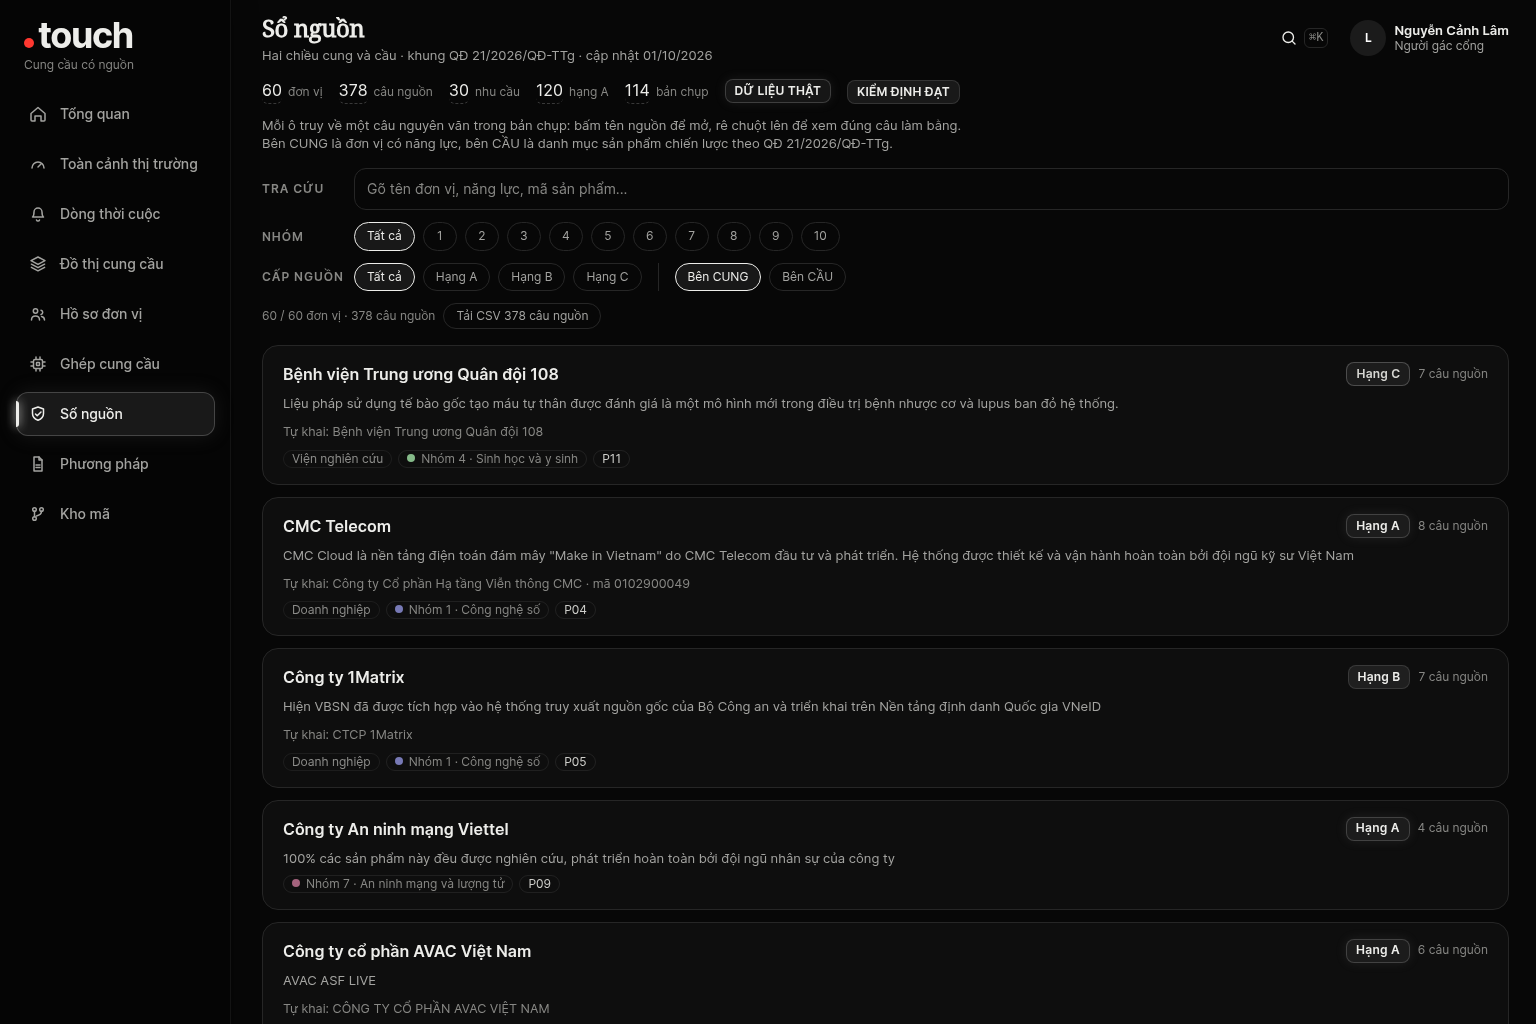
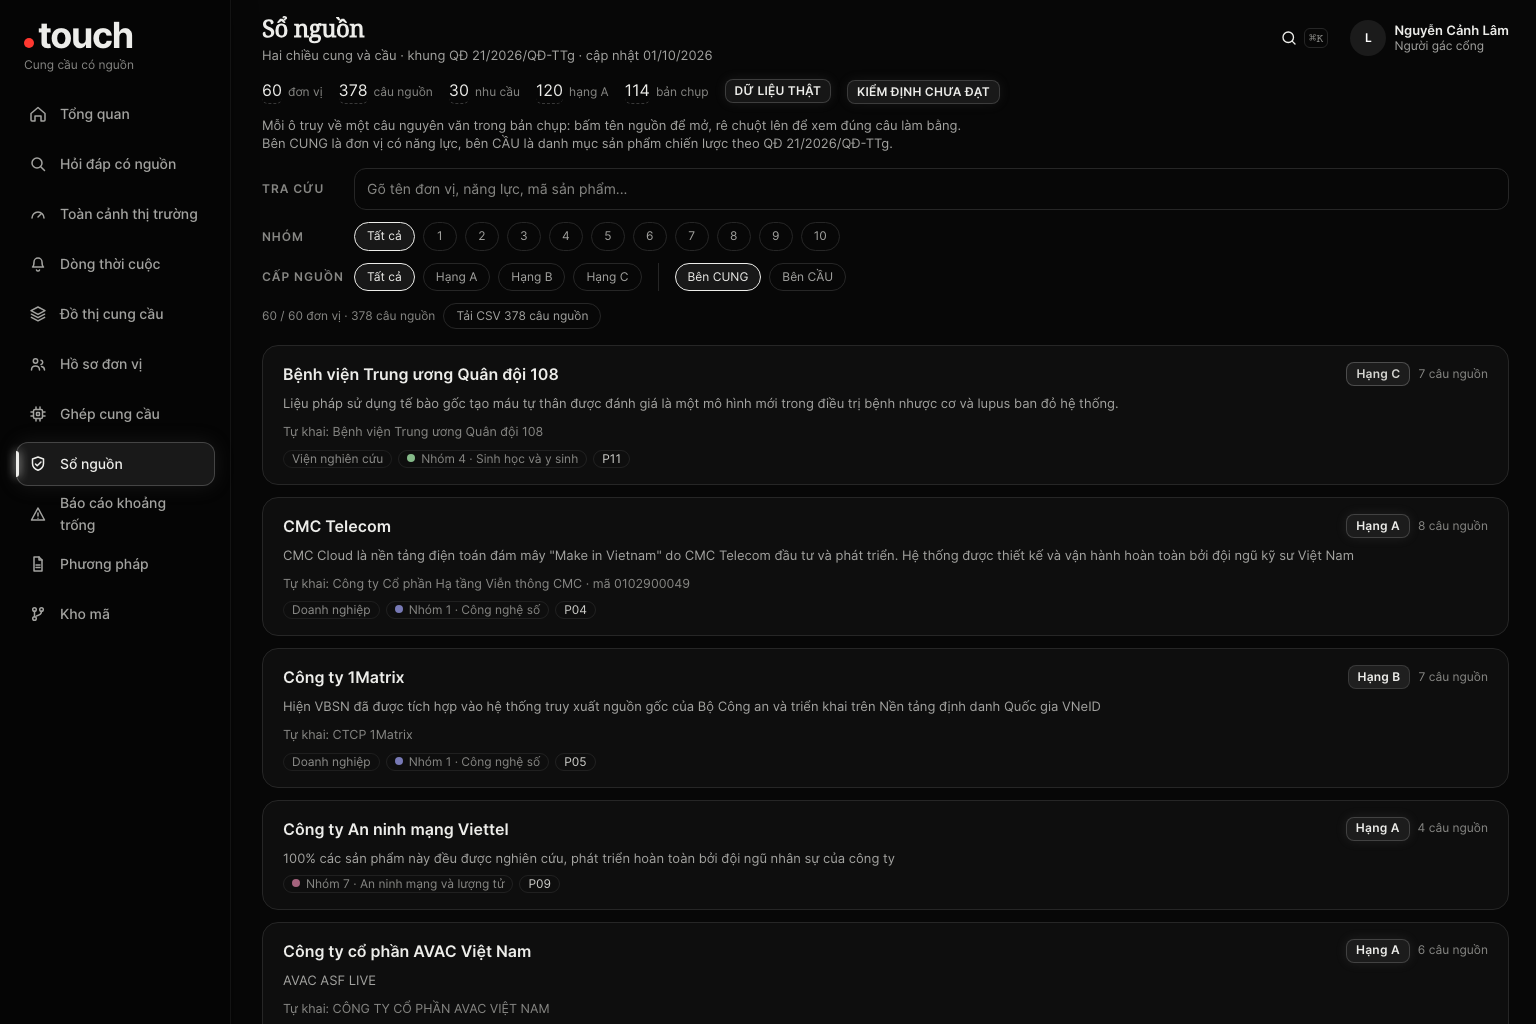
Lam moi anh moc, truy cap va ket qua chuoi tren may that

diff --git a/.touch/lib/cncl-registry.ts b/.touch/lib/cncl-registry.ts
@@ -39,16 +39,16 @@ export const cnclMeta: CnclMeta = {
   "nhomPhu": 10,
   "generatedAt": "2026-10-01",
   "frame": "QĐ 21/2026/QĐ-TTg",
-  "gate": "chuỗi cổng 2026-10-01 11:37: 103/103 xanh",
+  "gate": "chuỗi cổng 2026-10-01 20:39: 61/62 xanh · chế độ nhanh · ĐỎ 0 · không chạy 1",
   "chuoiCong": {
-    "luc": "2026-10-01T11:37:40+0700",
-    "cheDo": "day_du",
-    "tong": 103,
-    "xanh": 103,
+    "luc": "2026-10-01T20:39:48+0700",
+    "cheDo": "nhanh",
+    "tong": 62,
+    "xanh": 61,
     "do": 0,
-    "khongChay": 0,
+    "khongChay": 1,
     "hoan": 0,
-    "dat": true
+    "dat": false
   }
 };
 
